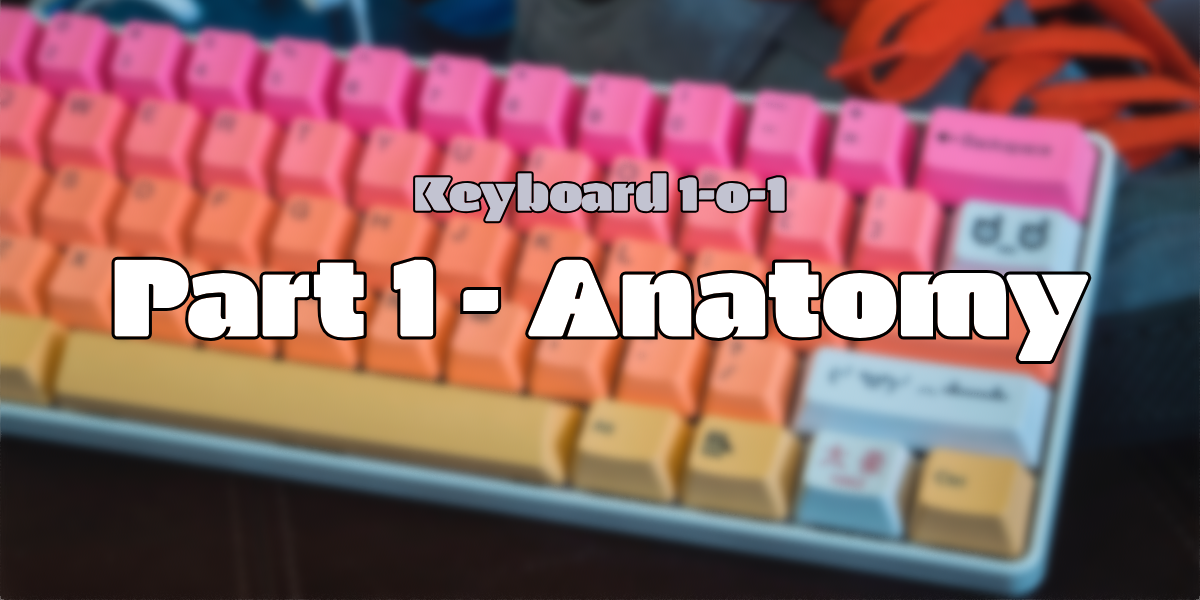
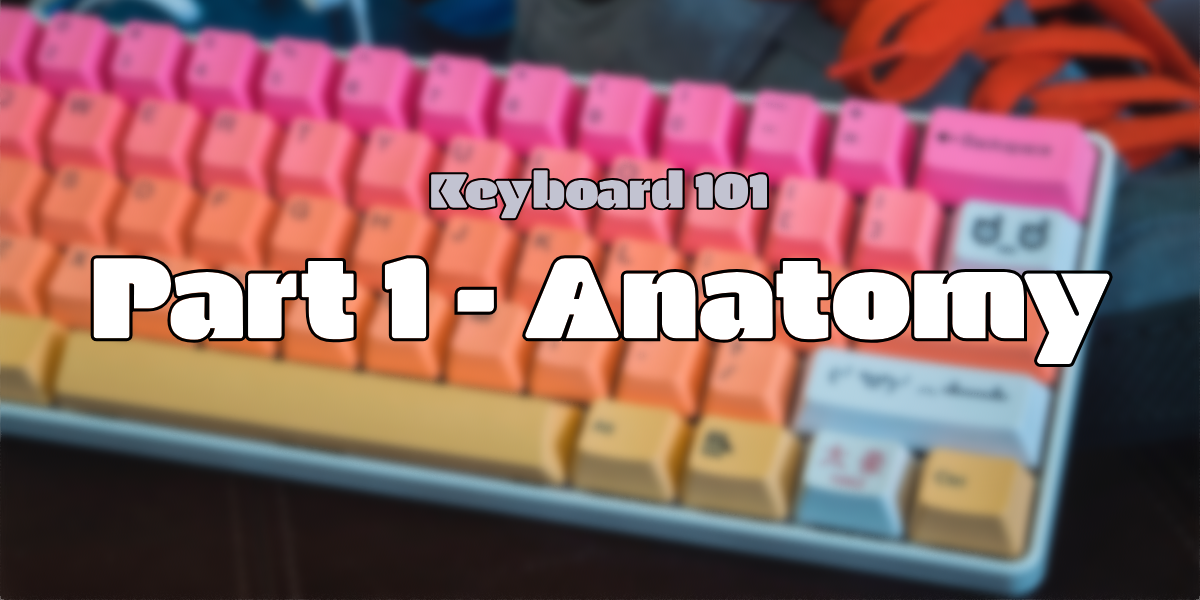
🌐 Translate post

Changed region(s): [[0.0617, 0.42, 0.925, 0.63], [0.3392, 0.27, 0.6783, 0.39], [0.4625, 0.42, 0.4933, 0.45]]

diff --git a/content/posts/keyboard-101-part1-anatomy/index.en.md b/content/posts/keyboard-101-part1-anatomy/index.en.md
@@ -1,8 +1,10 @@
 ---
-title: Keyboard 101
-description: null
-date: 2022-10-01T09:00:00+02:00
-lastmod: 2022-10-18T08:16:13.382Z
+title: "Keyboard 101 - Part 1: Anatomy"
+cover: /images/keyboard-101-part1-anatomy/cover.en.png
+description: We are using keyboards every day, but do you really know those tiny creatures?
+  Quick overview and glossary to go further.
+date: 2023-01-03T09:00:00.000Z
+lastmod: 2023-01-03T10:13:06.393Z
 author: Nicolas Delauney
 tags:
   - keyboard
@@ -10,6 +12,115 @@ keywords:
   - keyboard
 readingTime: true
 draft: true
+series: Keyboard 101
 ---
 
-Hello world
+Keyboards, tools of you daily life. Everbody has some (one, or more 😇) but do you know what's inside ? From _layouts_ to _profiles_, from _membrane_ keyboards to _mechanical_ ones, let's dive together in this wonderful world.
+
+{{% note info %}}
+I could have told you about [laser keyboards](https://keyboardsexpert.com/laser-projection-keyboards-guide/) or [virtual keyboards](https://en.wikipedia.org/wiki/Virtual_keyboard), but the truth is, anything that output an electric signal can be a keyboard. So, for now, let's stick to the more "classical" keyboards, with hardware, the most commonly used.
+{{% /note %}}
+
+In order to _not_ knock you out right now, let's go step by step by beginning with keyboard anatomy. There's so much to say, it's better to have multiple parts! 😅
+
+## Pieces
+
+Every keyboard, wether it's mechanical or membrane, are made of the following elements: 
+
+- a **set of actuators**, the membrane or the switches depending on the type of the keyboard, they transform physical action into an electrical signal.
+- **a controller**, whose role is to transform the signal into a "symbol" directly sent to the computer. (_ie_ `line 4` `column 2` == `A`)
+- A **Printed Circuit Board** (PCB), which link actuators to the controller
+- a **case**, which dresses up the keyboard, protects its internal components, and gives structure to the whole (we do not want a keyboard that bounce at each keystroke!)
+- the **keycaps**, obviously, which protect the actuators, but more importantly give its personality to the keyboard
+
+## How it works
+
+A keyboard, in the first place, is a set of switches. Pushed, the power is on, released the power is off. That's how the controller (its brain) translate the position of the active switch into a letter. To do so, originally, a keyboard was a grid of verticals and horizontals wires:
+
+>```goat
+>  .-o--o--o--o--o--o--o--o--o--o--o--o--o--o-->        
+>   \ \  \  \  \  \  \  \  \  \  \  \  \  \  \        
+>    '-o--o--o--o--o--o--o--o--o--o--o--o--o--o-->        
+>     \ \  \  \  \  \  \  \  \  \  \  \  \  \  \        
+>      '-o--o--o--o--o--o--o--o--o--o--o--o--o--o-->        
+>         \  \  \  \  \  \  \  \  \  \  \  \  \  \        
+>          v  v  v  v  v  v  v  v  v  v  v  v  v  v        
+>   
+> Each key is at the intersection of a row and a column
+>```
+
+Pushing a key activate a vertical wire and an horizontal wire, to recognize the "position" of the active switch. The controller only had `rows * columns` to manage.
+
+The downside of this operation was that when reaching a certain amount of pushed keys, the controller was no longer able to detect a new key. That what is called "[_ghosting_][5]".
+
+Hopefully, nowadays ghosting is increasingly scarce because controller are more and more miniaturized and can manage as many inputs as necessary. We now talk of [NKRO][1] keyboards (_n keys roll over_) which, by design, cannot ghost any keystroke.
+
+## Keyboard families
+
+{{< figure src="./resources/pexels-josh-sorenson-1714205.jpg" caption="Photo by <a href='https://www.pexels.com/en-us/@joshsorenson/'>Josg Sorenson</a> on <a href='https://www.pexels.com/en-us/photo/clavier-magique-apple-avec-pave-numerique-sur-la-table-pres-de-la-souris-sans-fil-1714205/'>Pexels</a>">}}
+
+There is rougly 2 major types of keyboards, that I'm talking about from the beginning now: membrane keyboards and mechanical keyboards. Historically, all keyboards were mechanical. But technological advances have made the rise of the membrane keyboards possible, relegating the former to the rank of "gamer" keyboards, even if they are worth much more than just that.
+
+### Membrane keyboard
+
+The most common and cheapest keyboards on the market. The principle is straightforward. A **membrane** is made of 3 layers: the contact, the middle, and the active layer. The middle layer has openings, to allow contact between the two outer layers at the hole in each key.
+
+> ```goat
+> -+-+---v---+-+-+       +-+-+---v---+-+---v---+-+-  <------ contact layer
+>  |/|       |/|  |     |  |/|       |/|       |/|
+>  |/|       |/|  |     |  |/|       |/|       |/|   <------ middle layer
+>  |/|       |/|   '-v-'   |/|       |/|       |/|
+> -+-+---^---+-+-----^-----+-+---^---+-+---^---+-+-  <------ active layer
+> 
+>                    ^
+>                    |       a pushed key
+>                     '-causes the eletrical contact
+> ```
+
+They are very silent, because the plastic membrane deforms "smoothly", however when aging the membreane can become softer, which leads to keys not being registered, or keys that won't come up after the keystroke... And if the membrane breaks somewhere, you can ditch the whole keyboard and get a new one. Easy to produce, they are mainly made of plastics. So they are fairly light, come in a wide variety of forms, they can be flexible... If you don't know what's your keyboard type, chances are you have a membrane one (because for mechanical ones, being mechanical is a selling point 😛)
+
+| Pros            |  Cons                 |
+| :-------------- | :-------------------- |
+| ✅ Cheap        | ❌ not very lasting    |
+| ✅ Silent       | ❌ Low Typing comfort  |
+| ✅ Somehow thin |                        |
+
+### Mechanical keyboard
+
+Mechanical keyboard are called that way because of their actuators: the _switches_. They are actual switches, mechanically activated when the key is pushed down. A whole new and passionnating world that we will dive in another time!  
+To hold thoses switches, such keyboards need a _switch plate_, a metal plate that comes to stabilize switches in place. That means that mechanical keyboard are often heavier, but much more stable, and if a switch break... Just change it!
+
+{{< figure src="./resources/jan-loyde-cabrera-6e9b45NTrI4-unsplash.jpg" caption="Photo by <a href='https://unsplash.com/@loydieschoice?utm_source=unsplash&utm_medium=referral&utm_content=creditCopyText'>Jan Loyde Cabrera</a> on <a href='https://unsplash.com/photos/6e9b45NTrI4?utm_source=unsplash&utm_medium=referral&utm_content=creditCopyText'>Unsplash</a>">}}
+
+Moreover, most of the switches are standardized. The leading brand, [Cherry MX][cherry-mx], set the pace of this industry, and you will often find "cherry clones", meaning that they follow the same specs. Each switch category will change the typing experience, allowing each and every one of us to find the confort that match one taste.
+
+| Pros              | Cons                            |
+| :---------------- | :------------------------------ |
+| ✅ High durability | ❌ Costly (compared to membrane)|
+| ✅ Reparable       | ❌ Louder (rumor has it 😜)     |
+| ✅ Customizable    |                                |
+
+---
+
+Ok, that's a start! Now you know what you have at your fingertips. In the next part, we will discuss about the different forms keyboards can take, and believe me there's something for everyone! ⌨
+
+---
+
+### Ressources
+To go further, here's a list of articles that helped me writing this one
+
+- [Anatomy of a mechanical keyboard][2] by Isabela Moreira
+- [What Is a Membrane Keyboard, and Is a Mechanical One Better?][3] by Georgie Peru
+- [What's NKRO][4] from Open Steno Project
+- [What is keyboard ghosting ?][5] by Mech Keybs
+
+
+[1]: https://en.wikipedia.org/wiki/Key_rollover#n-key_rollover
+[2]: https://drop.com/talk/10016/anatomy-of-a-mechanical-keyboard
+[3]: https://www.howtogeek.com/790232/what-is-a-membrane-keyboard-and-is-a-mechanical-one-better/
+[4]: https://github.com/openstenoproject/plover/wiki/Supported-Hardware#whats-nkro
+[5]: https://www.mechkeybs.com/learn/keyboard-ghosting/
+
+[laser-keyboards]: https://keyboardsexpert.com/laser-projection-keyboards-guide/
+[virtual-keyboards]: https://fr.wikipedia.org/wiki/Clavier_virtuel
+[cherry-mx]: https://www.cherrymx.de/en
